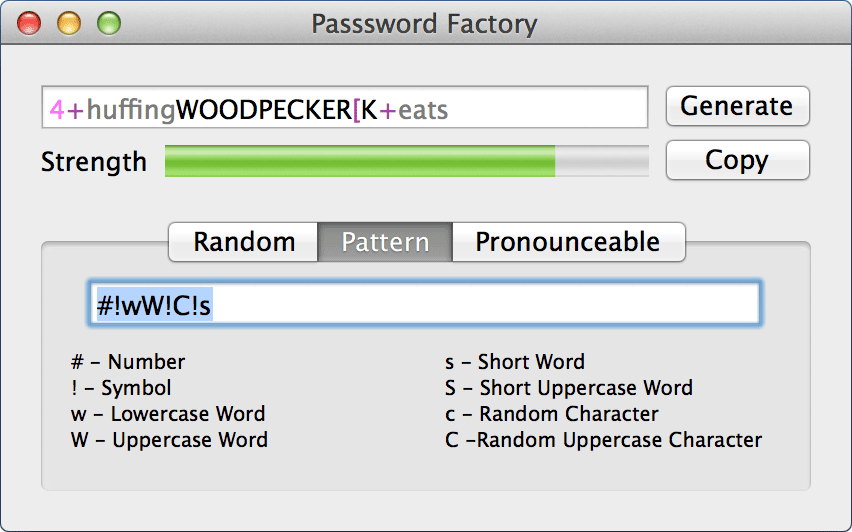
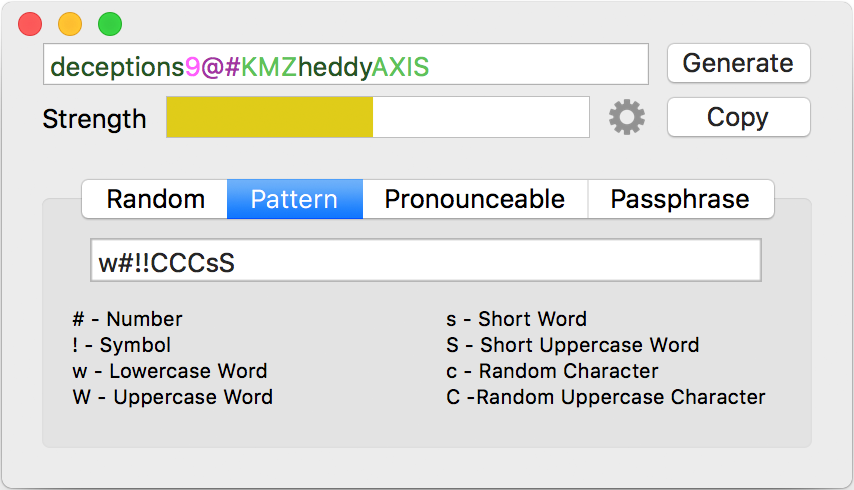
updated prefs gear working on help

diff --git a/Password Factory/Assets/PasswordFactory.help/Contents/Resources/en.lproj/index.html b/Password Factory/Assets/PasswordFactory.help/Contents/Resources/en.lproj/index.html
@@ -36,6 +36,9 @@
                     <a href="#pronounceable_generator">Pronounceable</a>
                 </li>
                 <li>
+                    <a href="#passphrase_generator">Passphrase</a>
+                </li>
+                <li>
                     <a href="#preferences">Preferences</a>
                 </li>
                 <li>
@@ -71,10 +74,11 @@
                     <p>Below the password field is the strength meter. The stength meter will fill and indicate the relative strength via a color. Red is weak, yellow is medium, and green is strong. The strength meter goes from 0 to 100 and 100 is the strongest.</p>
                     <p>The strength level is only a guide, and will not assure your password won't be hacked</p>
                     <p>To the right are two buttons, generate will generate a new password, and copy will copy the current password to the clipboard</p>
+                    <p>Clicking the gear button will open up the preferences window</p>
                 </section>
                 <section id="generate_area">
                     <h3>Generate Area</h3>
-                    <p>This consists of three tabs 'Random', 'Pattern' and 'Pronounceable'. Each tab will generate a password using a different format.</p>
+                    <p>This consists of four tabs 'Random', 'Pattern', 'Pronounceable' and 'Passphrase'. Each tab will generate a password using a different format.</p>
                 </section>
 
             </section>
@@ -123,6 +127,12 @@
                 <img src="gfx/pronounceable.png" class="window" width="406" />
                 <p>The pronounceable tab will generate a random password that is pronounceable rather than random. There are two options for generating, length, and separator</p>
                 <p>The length slider will set the approximate length for the password, and the separator buttons toggle between six different separators</p>
+            </section>
+            <section id="passphrase_generator">
+                <h2>Passphrase</h2>
+                <img src="gfx/passphrase.png" class="window" width="406" />
+                <p>The passphrase tab will generate a passphrase style password. The password will consist of a series of words separated by your chosen separator character.</p>
+                <p>The length slider will set the approximate length of the passphrase, and the separator buttons will choose the separator. The word case buttons will set the case style of each of the words in the passphrase. </p>
             </section>
             <section id="preferences">
                 <h2>Preferences</h2>

diff --git a/Password Factory/Assets/StyleKit.m b/Password Factory/Assets/StyleKit.m
@@ -2,8 +2,8 @@
 //  StyleKit.m
 //  Password Factory
 //
-//  Created by Cristiana Yambo on 8/19/15.
-//  Copyright (c) 2015 Cloud13. All rights reserved.
+//  Created by Cristiana Yambo on 1/15/16.
+//  Copyright (c) 2016 Cloud13. All rights reserved.
 //
 //  Generated by PaintCode (www.paintcodeapp.com)
 //
@@ -66,114 +66,93 @@ static NSImage* _imageOfMenuIcon = nil;
 
 + (void)drawPreferencesButton
 {
+    //// Color Declarations
+    NSColor* strokeColor = [NSColor colorWithCalibratedRed: 0.694 green: 0.694 blue: 0.694 alpha: 1];
 
     //// Bezier Drawing
-    NSBezierPath* bezierPath = NSBezierPath.bezierPath;
-    [bezierPath moveToPoint: NSMakePoint(40.3, 18.4)];
-    [bezierPath lineToPoint: NSMakePoint(36.68, 19.57)];
-    [bezierPath curveToPoint: NSMakePoint(36.24, 20.19) controlPoint1: NSMakePoint(36.54, 19.64) controlPoint2: NSMakePoint(36.35, 19.81)];
-    [bezierPath curveToPoint: NSMakePoint(36.26, 21) controlPoint1: NSMakePoint(36.25, 20.46) controlPoint2: NSMakePoint(36.26, 20.73)];
-    [bezierPath curveToPoint: NSMakePoint(36.24, 21.79) controlPoint1: NSMakePoint(36.26, 21.27) controlPoint2: NSMakePoint(36.25, 21.53)];
-    [bezierPath curveToPoint: NSMakePoint(36.68, 22.43) controlPoint1: NSMakePoint(36.35, 22.19) controlPoint2: NSMakePoint(36.54, 22.36)];
-    [bezierPath lineToPoint: NSMakePoint(40.3, 23.6)];
-    [bezierPath curveToPoint: NSMakePoint(40.95, 24.86) controlPoint1: NSMakePoint(40.83, 23.77) controlPoint2: NSMakePoint(41.12, 24.34)];
-    [bezierPath lineToPoint: NSMakePoint(39.43, 29.5)];
-    [bezierPath curveToPoint: NSMakePoint(38.16, 30.14) controlPoint1: NSMakePoint(39.26, 30.02) controlPoint2: NSMakePoint(38.69, 30.31)];
-    [bezierPath lineToPoint: NSMakePoint(34.58, 28.98)];
-    [bezierPath curveToPoint: NSMakePoint(33.8, 29.24) controlPoint1: NSMakePoint(34.43, 28.95) controlPoint2: NSMakePoint(34.15, 28.96)];
-    [bezierPath curveToPoint: NSMakePoint(32.85, 30.53) controlPoint1: NSMakePoint(33.51, 29.69) controlPoint2: NSMakePoint(33.19, 30.12)];
-    [bezierPath curveToPoint: NSMakePoint(32.85, 31.33) controlPoint1: NSMakePoint(32.7, 30.93) controlPoint2: NSMakePoint(32.78, 31.19)];
-    [bezierPath lineToPoint: NSMakePoint(35.07, 34.36)];
-    [bezierPath curveToPoint: NSMakePoint(34.85, 35.75) controlPoint1: NSMakePoint(35.4, 34.8) controlPoint2: NSMakePoint(35.3, 35.43)];
-    [bezierPath lineToPoint: NSMakePoint(30.87, 38.62)];
-    [bezierPath curveToPoint: NSMakePoint(29.46, 38.4) controlPoint1: NSMakePoint(30.42, 38.94) controlPoint2: NSMakePoint(29.79, 38.84)];
-    [bezierPath lineToPoint: NSMakePoint(27.22, 35.34)];
-    [bezierPath curveToPoint: NSMakePoint(26.49, 35.12) controlPoint1: NSMakePoint(27.1, 35.23) controlPoint2: NSMakePoint(26.88, 35.1)];
-    [bezierPath curveToPoint: NSMakePoint(24.95, 35.61) controlPoint1: NSMakePoint(25.99, 35.31) controlPoint2: NSMakePoint(25.47, 35.47)];
-    [bezierPath curveToPoint: NSMakePoint(24.47, 36.23) controlPoint1: NSMakePoint(24.6, 35.83) controlPoint2: NSMakePoint(24.5, 36.07)];
-    [bezierPath lineToPoint: NSMakePoint(24.47, 40)];
-    [bezierPath curveToPoint: NSMakePoint(23.46, 41) controlPoint1: NSMakePoint(24.47, 40.55) controlPoint2: NSMakePoint(24.02, 41)];
-    [bezierPath lineToPoint: NSMakePoint(18.54, 41)];
-    [bezierPath curveToPoint: NSMakePoint(17.54, 40) controlPoint1: NSMakePoint(17.99, 41) controlPoint2: NSMakePoint(17.54, 40.55)];
-    [bezierPath lineToPoint: NSMakePoint(17.54, 36.27)];
-    [bezierPath curveToPoint: NSMakePoint(17.05, 35.61) controlPoint1: NSMakePoint(17.52, 36.12) controlPoint2: NSMakePoint(17.42, 35.85)];
-    [bezierPath lineToPoint: NSMakePoint(17.05, 35.61)];
-    [bezierPath curveToPoint: NSMakePoint(15.51, 35.12) controlPoint1: NSMakePoint(16.52, 35.47) controlPoint2: NSMakePoint(16.01, 35.31)];
-    [bezierPath curveToPoint: NSMakePoint(14.75, 35.36) controlPoint1: NSMakePoint(15.08, 35.1) controlPoint2: NSMakePoint(14.86, 35.25)];
-    [bezierPath lineToPoint: NSMakePoint(12.53, 38.39)];
-    [bezierPath curveToPoint: NSMakePoint(11.13, 38.61) controlPoint1: NSMakePoint(12.21, 38.84) controlPoint2: NSMakePoint(11.57, 38.93)];
-    [bezierPath lineToPoint: NSMakePoint(7.15, 35.74)];
-    [bezierPath curveToPoint: NSMakePoint(6.92, 34.35) controlPoint1: NSMakePoint(6.7, 35.42) controlPoint2: NSMakePoint(6.6, 34.8)];
-    [bezierPath lineToPoint: NSMakePoint(9.16, 31.29)];
-    [bezierPath curveToPoint: NSMakePoint(9.15, 30.52) controlPoint1: NSMakePoint(9.23, 31.15) controlPoint2: NSMakePoint(9.29, 30.9)];
-    [bezierPath curveToPoint: NSMakePoint(8.21, 29.24) controlPoint1: NSMakePoint(8.81, 30.11) controlPoint2: NSMakePoint(8.5, 29.69)];
-    [bezierPath curveToPoint: NSMakePoint(8.2, 29.24) controlPoint1: NSMakePoint(8.21, 29.24) controlPoint2: NSMakePoint(8.2, 29.24)];
-    [bezierPath curveToPoint: NSMakePoint(7.46, 28.98) controlPoint1: NSMakePoint(7.88, 28.98) controlPoint2: NSMakePoint(7.62, 28.96)];
-    [bezierPath lineToPoint: NSMakePoint(3.84, 30.14)];
-    [bezierPath curveToPoint: NSMakePoint(2.57, 29.5) controlPoint1: NSMakePoint(3.31, 30.31) controlPoint2: NSMakePoint(2.74, 30.02)];
-    [bezierPath lineToPoint: NSMakePoint(1.05, 24.86)];
-    [bezierPath curveToPoint: NSMakePoint(1.7, 23.61) controlPoint1: NSMakePoint(0.88, 24.34) controlPoint2: NSMakePoint(1.17, 23.78)];
-    [bezierPath lineToPoint: NSMakePoint(5.28, 22.45)];
-    [bezierPath curveToPoint: NSMakePoint(5.76, 21.79) controlPoint1: NSMakePoint(5.42, 22.39) controlPoint2: NSMakePoint(5.64, 22.22)];
-    [bezierPath curveToPoint: NSMakePoint(5.76, 21.78) controlPoint1: NSMakePoint(5.76, 21.79) controlPoint2: NSMakePoint(5.76, 21.78)];
-    [bezierPath curveToPoint: NSMakePoint(5.74, 21) controlPoint1: NSMakePoint(5.75, 21.52) controlPoint2: NSMakePoint(5.74, 21.26)];
-    [bezierPath curveToPoint: NSMakePoint(5.76, 20.2) controlPoint1: NSMakePoint(5.74, 20.73) controlPoint2: NSMakePoint(5.75, 20.47)];
-    [bezierPath curveToPoint: NSMakePoint(5.29, 19.55) controlPoint1: NSMakePoint(5.65, 19.78) controlPoint2: NSMakePoint(5.43, 19.61)];
-    [bezierPath lineToPoint: NSMakePoint(1.7, 18.39)];
-    [bezierPath curveToPoint: NSMakePoint(1.05, 17.14) controlPoint1: NSMakePoint(1.17, 18.22) controlPoint2: NSMakePoint(0.88, 17.66)];
-    [bezierPath lineToPoint: NSMakePoint(2.57, 12.5)];
-    [bezierPath curveToPoint: NSMakePoint(3.84, 11.86) controlPoint1: NSMakePoint(2.74, 11.98) controlPoint2: NSMakePoint(3.31, 11.69)];
-    [bezierPath lineToPoint: NSMakePoint(7.47, 13.03)];
-    [bezierPath curveToPoint: NSMakePoint(8.2, 12.77) controlPoint1: NSMakePoint(7.62, 13.05) controlPoint2: NSMakePoint(7.88, 13.02)];
-    [bezierPath curveToPoint: NSMakePoint(9.13, 11.49) controlPoint1: NSMakePoint(8.49, 12.33) controlPoint2: NSMakePoint(8.8, 11.9)];
-    [bezierPath curveToPoint: NSMakePoint(9.14, 11.48) controlPoint1: NSMakePoint(9.14, 11.49) controlPoint2: NSMakePoint(9.14, 11.48)];
-    [bezierPath curveToPoint: NSMakePoint(9.16, 10.7) controlPoint1: NSMakePoint(9.29, 11.1) controlPoint2: NSMakePoint(9.23, 10.84)];
-    [bezierPath lineToPoint: NSMakePoint(6.92, 7.65)];
-    [bezierPath curveToPoint: NSMakePoint(7.15, 6.26) controlPoint1: NSMakePoint(6.6, 7.2) controlPoint2: NSMakePoint(6.7, 6.58)];
-    [bezierPath lineToPoint: NSMakePoint(11.13, 3.39)];
-    [bezierPath curveToPoint: NSMakePoint(12.53, 3.61) controlPoint1: NSMakePoint(11.57, 3.07) controlPoint2: NSMakePoint(12.21, 3.16)];
-    [bezierPath lineToPoint: NSMakePoint(14.75, 6.63)];
-    [bezierPath curveToPoint: NSMakePoint(15.53, 6.88) controlPoint1: NSMakePoint(14.85, 6.74) controlPoint2: NSMakePoint(15.08, 6.9)];
-    [bezierPath lineToPoint: NSMakePoint(15.53, 6.88)];
-    [bezierPath curveToPoint: NSMakePoint(17.07, 6.39) controlPoint1: NSMakePoint(16.03, 6.69) controlPoint2: NSMakePoint(16.54, 6.52)];
-    [bezierPath curveToPoint: NSMakePoint(17.54, 5.74) controlPoint1: NSMakePoint(17.43, 6.15) controlPoint2: NSMakePoint(17.52, 5.89)];
-    [bezierPath lineToPoint: NSMakePoint(17.54, 2)];
-    [bezierPath curveToPoint: NSMakePoint(18.54, 1) controlPoint1: NSMakePoint(17.54, 1.45) controlPoint2: NSMakePoint(17.99, 1)];
-    [bezierPath lineToPoint: NSMakePoint(23.46, 1)];
-    [bezierPath curveToPoint: NSMakePoint(24.47, 2) controlPoint1: NSMakePoint(24.02, 1) controlPoint2: NSMakePoint(24.47, 1.45)];
-    [bezierPath lineToPoint: NSMakePoint(24.47, 5.78)];
-    [bezierPath curveToPoint: NSMakePoint(24.93, 6.38) controlPoint1: NSMakePoint(24.5, 5.93) controlPoint2: NSMakePoint(24.6, 6.16)];
-    [bezierPath curveToPoint: NSMakePoint(26.47, 6.88) controlPoint1: NSMakePoint(25.45, 6.52) controlPoint2: NSMakePoint(25.97, 6.69)];
-    [bezierPath curveToPoint: NSMakePoint(27.22, 6.66) controlPoint1: NSMakePoint(26.88, 6.9) controlPoint2: NSMakePoint(27.11, 6.77)];
-    [bezierPath lineToPoint: NSMakePoint(29.46, 3.6)];
-    [bezierPath curveToPoint: NSMakePoint(30.87, 3.38) controlPoint1: NSMakePoint(29.79, 3.16) controlPoint2: NSMakePoint(30.42, 3.06)];
-    [bezierPath lineToPoint: NSMakePoint(34.85, 6.25)];
-    [bezierPath curveToPoint: NSMakePoint(35.07, 7.64) controlPoint1: NSMakePoint(35.3, 6.57) controlPoint2: NSMakePoint(35.4, 7.2)];
-    [bezierPath lineToPoint: NSMakePoint(32.86, 10.67)];
-    [bezierPath curveToPoint: NSMakePoint(32.86, 11.48) controlPoint1: NSMakePoint(32.78, 10.8) controlPoint2: NSMakePoint(32.7, 11.07)];
-    [bezierPath lineToPoint: NSMakePoint(32.86, 11.48)];
-    [bezierPath curveToPoint: NSMakePoint(33.81, 12.78) controlPoint1: NSMakePoint(33.2, 11.9) controlPoint2: NSMakePoint(33.52, 12.33)];
-    [bezierPath curveToPoint: NSMakePoint(34.57, 13.02) controlPoint1: NSMakePoint(34.15, 13.04) controlPoint2: NSMakePoint(34.42, 13.05)];
-    [bezierPath lineToPoint: NSMakePoint(38.16, 11.86)];
-    [bezierPath curveToPoint: NSMakePoint(39.43, 12.5) controlPoint1: NSMakePoint(38.69, 11.69) controlPoint2: NSMakePoint(39.26, 11.98)];
-    [bezierPath lineToPoint: NSMakePoint(40.95, 17.14)];
-    [bezierPath curveToPoint: NSMakePoint(40.3, 18.4) controlPoint1: NSMakePoint(41.12, 17.66) controlPoint2: NSMakePoint(40.83, 18.23)];
+    NSBezierPath* bezierPath = [NSBezierPath bezierPath];
+    [bezierPath moveToPoint: NSMakePoint(21, 13.67)];
+    [bezierPath curveToPoint: NSMakePoint(13.67, 21) controlPoint1: NSMakePoint(16.95, 13.67) controlPoint2: NSMakePoint(13.67, 16.95)];
+    [bezierPath curveToPoint: NSMakePoint(21, 28.33) controlPoint1: NSMakePoint(13.67, 25.05) controlPoint2: NSMakePoint(16.95, 28.33)];
+    [bezierPath curveToPoint: NSMakePoint(28.33, 21) controlPoint1: NSMakePoint(25.05, 28.33) controlPoint2: NSMakePoint(28.33, 25.05)];
+    [bezierPath curveToPoint: NSMakePoint(21, 13.67) controlPoint1: NSMakePoint(28.33, 16.95) controlPoint2: NSMakePoint(25.05, 13.67)];
     [bezierPath closePath];
-    [bezierPath moveToPoint: NSMakePoint(21, 12.86)];
-    [bezierPath curveToPoint: NSMakePoint(12.79, 21) controlPoint1: NSMakePoint(16.47, 12.86) controlPoint2: NSMakePoint(12.79, 16.51)];
-    [bezierPath curveToPoint: NSMakePoint(21, 29.14) controlPoint1: NSMakePoint(12.79, 25.49) controlPoint2: NSMakePoint(16.47, 29.14)];
-    [bezierPath curveToPoint: NSMakePoint(29.21, 21) controlPoint1: NSMakePoint(25.54, 29.14) controlPoint2: NSMakePoint(29.21, 25.49)];
-    [bezierPath curveToPoint: NSMakePoint(21, 12.86) controlPoint1: NSMakePoint(29.21, 16.51) controlPoint2: NSMakePoint(25.54, 12.86)];
+    [bezierPath moveToPoint: NSMakePoint(40, 18.16)];
+    [bezierPath curveToPoint: NSMakePoint(40.5, 18.9) controlPoint1: NSMakePoint(40.27, 18.27) controlPoint2: NSMakePoint(40.5, 18.6)];
+    [bezierPath lineToPoint: NSMakePoint(40.5, 23.1)];
+    [bezierPath curveToPoint: NSMakePoint(40, 23.84) controlPoint1: NSMakePoint(40.5, 23.4) controlPoint2: NSMakePoint(40.27, 23.73)];
+    [bezierPath lineToPoint: NSMakePoint(36.16, 25.38)];
+    [bezierPath curveToPoint: NSMakePoint(35.48, 26.09) controlPoint1: NSMakePoint(35.88, 25.49) controlPoint2: NSMakePoint(35.58, 25.81)];
+    [bezierPath lineToPoint: NSMakePoint(34.83, 27.64)];
+    [bezierPath curveToPoint: NSMakePoint(34.81, 28.62) controlPoint1: NSMakePoint(34.71, 27.91) controlPoint2: NSMakePoint(34.7, 28.35)];
+    [bezierPath lineToPoint: NSMakePoint(36.44, 32.43)];
+    [bezierPath curveToPoint: NSMakePoint(36.27, 33.3) controlPoint1: NSMakePoint(36.56, 32.7) controlPoint2: NSMakePoint(36.48, 33.09)];
+    [bezierPath lineToPoint: NSMakePoint(33.3, 36.27)];
+    [bezierPath curveToPoint: NSMakePoint(32.43, 36.44) controlPoint1: NSMakePoint(33.09, 36.48) controlPoint2: NSMakePoint(32.7, 36.56)];
+    [bezierPath lineToPoint: NSMakePoint(28.62, 34.81)];
+    [bezierPath curveToPoint: NSMakePoint(27.64, 34.83) controlPoint1: NSMakePoint(28.35, 34.7) controlPoint2: NSMakePoint(27.91, 34.71)];
+    [bezierPath lineToPoint: NSMakePoint(26.09, 35.48)];
+    [bezierPath curveToPoint: NSMakePoint(25.38, 36.16) controlPoint1: NSMakePoint(25.81, 35.58) controlPoint2: NSMakePoint(25.49, 35.88)];
+    [bezierPath lineToPoint: NSMakePoint(23.84, 40)];
+    [bezierPath curveToPoint: NSMakePoint(23.1, 40.5) controlPoint1: NSMakePoint(23.73, 40.27) controlPoint2: NSMakePoint(23.4, 40.5)];
+    [bezierPath lineToPoint: NSMakePoint(18.9, 40.5)];
+    [bezierPath curveToPoint: NSMakePoint(18.16, 40) controlPoint1: NSMakePoint(18.6, 40.5) controlPoint2: NSMakePoint(18.27, 40.27)];
+    [bezierPath lineToPoint: NSMakePoint(16.62, 36.16)];
+    [bezierPath curveToPoint: NSMakePoint(15.91, 35.48) controlPoint1: NSMakePoint(16.51, 35.88) controlPoint2: NSMakePoint(16.19, 35.58)];
+    [bezierPath lineToPoint: NSMakePoint(14.36, 34.83)];
+    [bezierPath curveToPoint: NSMakePoint(13.38, 34.81) controlPoint1: NSMakePoint(14.09, 34.71) controlPoint2: NSMakePoint(13.65, 34.7)];
+    [bezierPath lineToPoint: NSMakePoint(9.57, 36.44)];
+    [bezierPath curveToPoint: NSMakePoint(8.7, 36.27) controlPoint1: NSMakePoint(9.3, 36.56) controlPoint2: NSMakePoint(8.91, 36.48)];
+    [bezierPath lineToPoint: NSMakePoint(5.73, 33.3)];
+    [bezierPath curveToPoint: NSMakePoint(5.56, 32.43) controlPoint1: NSMakePoint(5.52, 33.09) controlPoint2: NSMakePoint(5.44, 32.7)];
+    [bezierPath lineToPoint: NSMakePoint(7.19, 28.62)];
+    [bezierPath curveToPoint: NSMakePoint(7.17, 27.64) controlPoint1: NSMakePoint(7.3, 28.35) controlPoint2: NSMakePoint(7.29, 27.91)];
+    [bezierPath lineToPoint: NSMakePoint(6.52, 26.09)];
+    [bezierPath curveToPoint: NSMakePoint(5.84, 25.38) controlPoint1: NSMakePoint(6.42, 25.81) controlPoint2: NSMakePoint(6.12, 25.49)];
+    [bezierPath lineToPoint: NSMakePoint(2, 23.84)];
+    [bezierPath curveToPoint: NSMakePoint(1.5, 23.1) controlPoint1: NSMakePoint(1.73, 23.73) controlPoint2: NSMakePoint(1.5, 23.4)];
+    [bezierPath lineToPoint: NSMakePoint(1.5, 18.9)];
+    [bezierPath curveToPoint: NSMakePoint(2, 18.16) controlPoint1: NSMakePoint(1.5, 18.6) controlPoint2: NSMakePoint(1.73, 18.27)];
+    [bezierPath lineToPoint: NSMakePoint(5.84, 16.62)];
+    [bezierPath curveToPoint: NSMakePoint(6.52, 15.91) controlPoint1: NSMakePoint(6.12, 16.51) controlPoint2: NSMakePoint(6.42, 16.19)];
+    [bezierPath lineToPoint: NSMakePoint(7.17, 14.36)];
+    [bezierPath curveToPoint: NSMakePoint(7.19, 13.38) controlPoint1: NSMakePoint(7.29, 14.09) controlPoint2: NSMakePoint(7.3, 13.65)];
+    [bezierPath lineToPoint: NSMakePoint(5.56, 9.57)];
+    [bezierPath curveToPoint: NSMakePoint(5.73, 8.7) controlPoint1: NSMakePoint(5.44, 9.3) controlPoint2: NSMakePoint(5.52, 8.91)];
+    [bezierPath lineToPoint: NSMakePoint(8.7, 5.73)];
+    [bezierPath curveToPoint: NSMakePoint(9.57, 5.56) controlPoint1: NSMakePoint(8.91, 5.52) controlPoint2: NSMakePoint(9.3, 5.44)];
+    [bezierPath lineToPoint: NSMakePoint(13.38, 7.19)];
+    [bezierPath curveToPoint: NSMakePoint(14.36, 7.17) controlPoint1: NSMakePoint(13.65, 7.3) controlPoint2: NSMakePoint(14.09, 7.29)];
+    [bezierPath lineToPoint: NSMakePoint(15.91, 6.52)];
+    [bezierPath curveToPoint: NSMakePoint(16.62, 5.84) controlPoint1: NSMakePoint(16.19, 6.42) controlPoint2: NSMakePoint(16.51, 6.12)];
+    [bezierPath lineToPoint: NSMakePoint(18.16, 2)];
+    [bezierPath curveToPoint: NSMakePoint(18.9, 1.5) controlPoint1: NSMakePoint(18.27, 1.73) controlPoint2: NSMakePoint(18.6, 1.5)];
+    [bezierPath lineToPoint: NSMakePoint(23.1, 1.5)];
+    [bezierPath curveToPoint: NSMakePoint(23.84, 2) controlPoint1: NSMakePoint(23.4, 1.5) controlPoint2: NSMakePoint(23.73, 1.73)];
+    [bezierPath lineToPoint: NSMakePoint(25.38, 5.84)];
+    [bezierPath curveToPoint: NSMakePoint(26.09, 6.52) controlPoint1: NSMakePoint(25.49, 6.12) controlPoint2: NSMakePoint(25.81, 6.42)];
+    [bezierPath lineToPoint: NSMakePoint(27.64, 7.17)];
+    [bezierPath curveToPoint: NSMakePoint(28.62, 7.19) controlPoint1: NSMakePoint(27.91, 7.29) controlPoint2: NSMakePoint(28.35, 7.3)];
+    [bezierPath lineToPoint: NSMakePoint(32.43, 5.56)];
+    [bezierPath curveToPoint: NSMakePoint(33.3, 5.73) controlPoint1: NSMakePoint(32.7, 5.44) controlPoint2: NSMakePoint(33.09, 5.52)];
+    [bezierPath lineToPoint: NSMakePoint(36.27, 8.7)];
+    [bezierPath curveToPoint: NSMakePoint(36.44, 9.57) controlPoint1: NSMakePoint(36.48, 8.91) controlPoint2: NSMakePoint(36.56, 9.3)];
+    [bezierPath lineToPoint: NSMakePoint(34.81, 13.38)];
+    [bezierPath curveToPoint: NSMakePoint(34.83, 14.36) controlPoint1: NSMakePoint(34.7, 13.65) controlPoint2: NSMakePoint(34.71, 14.09)];
+    [bezierPath lineToPoint: NSMakePoint(35.48, 15.91)];
+    [bezierPath curveToPoint: NSMakePoint(36.16, 16.62) controlPoint1: NSMakePoint(35.58, 16.19) controlPoint2: NSMakePoint(35.88, 16.51)];
+    [bezierPath lineToPoint: NSMakePoint(40, 18.16)];
     [bezierPath closePath];
-    [NSColor.grayColor setFill];
-    [bezierPath fill];
+    [strokeColor setStroke];
+    [bezierPath setLineWidth: 2];
+    [bezierPath stroke];
 }
 
 + (void)drawMenuIcon
 {
 
     //// Bezier Drawing
-    NSBezierPath* bezierPath = NSBezierPath.bezierPath;
+    NSBezierPath* bezierPath = [NSBezierPath bezierPath];
     [bezierPath moveToPoint: NSMakePoint(23.74, 10.34)];
     [bezierPath lineToPoint: NSMakePoint(16.84, 17.24)];
     [bezierPath curveToPoint: NSMakePoint(17.54, 19.18) controlPoint1: NSMakePoint(17.21, 17.86) controlPoint2: NSMakePoint(17.44, 18.52)];
@@ -229,11 +208,12 @@ static NSImage* _imageOfMenuIcon = nil;
     if (_imageOfPreferencesButton)
         return _imageOfPreferencesButton;
 
-    _imageOfPreferencesButton = [NSImage.alloc initWithSize: NSMakeSize(42, 42)];
-    [_imageOfPreferencesButton lockFocus];
-    [StyleKit drawPreferencesButton];
+    _imageOfPreferencesButton = [NSImage imageWithSize: NSMakeSize(42, 42) flipped: NO drawingHandler: ^(NSRect dstRect)
+    {
+        [StyleKit drawPreferencesButton];
 
-    [_imageOfPreferencesButton unlockFocus];
+        return YES;
+    }];
 
     return _imageOfPreferencesButton;
 }
@@ -243,11 +223,12 @@ static NSImage* _imageOfMenuIcon = nil;
     if (_imageOfMenuIcon)
         return _imageOfMenuIcon;
 
-    _imageOfMenuIcon = [NSImage.alloc initWithSize: NSMakeSize(32, 32)];
-    [_imageOfMenuIcon lockFocus];
-    [StyleKit drawMenuIcon];
+    _imageOfMenuIcon = [NSImage imageWithSize: NSMakeSize(32, 32) flipped: NO drawingHandler: ^(NSRect dstRect)
+    {
+        [StyleKit drawMenuIcon];
 
-    [_imageOfMenuIcon unlockFocus];
+        return YES;
+    }];
 
     return _imageOfMenuIcon;
 }

diff --git a/Password Factory/Assets/StyleKit.h b/Password Factory/Assets/StyleKit.h
@@ -2,8 +2,8 @@
 //  StyleKit.h
 //  Password Factory
 //
-//  Created by Cristiana Yambo on 8/19/15.
-//  Copyright (c) 2015 Cloud13. All rights reserved.
+//  Created by Cristiana Yambo on 1/15/16.
+//  Copyright (c) 2016 Cloud13. All rights reserved.
 //
 //  Generated by PaintCode (www.paintcodeapp.com)
 //
